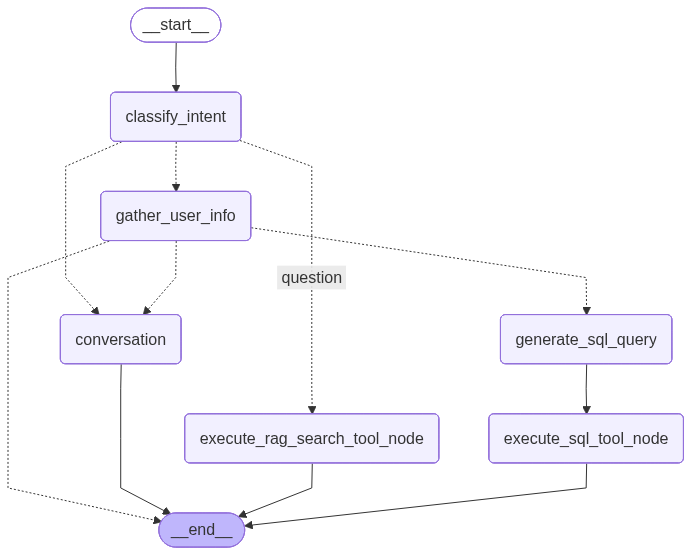
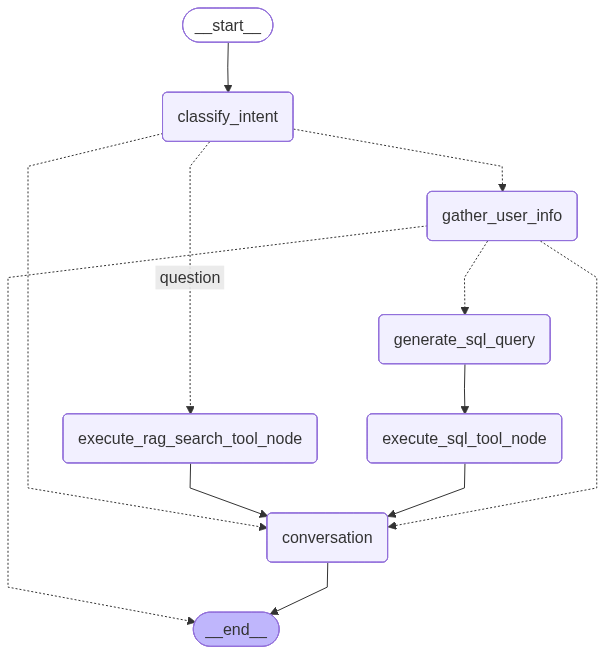
feat - improved conversational response generation and enhanced user interaction flow

diff --git a/app/agents/nodes/conversation.py b/app/agents/nodes/conversation.py
@@ -1,50 +1,96 @@
 from langchain_core.messages import HumanMessage, SystemMessage
 from app.agents.llm_provider import get_llm
 from app.agents.state import AgentState
-import json
 from app.enums import AiModel
+import json
 
 
 def generate_conversational_response(state: AgentState) -> AgentState:
-    llm = get_llm(temperature=0, provider=AiModel.OPENAI)
-
+    llm = get_llm(temperature=0.3, provider=AiModel.OPENAI)
     intent = state.get("intent")
 
     if intent == "greeting":
-        state["response"] ="""
-                            Hello! 🙏 Welcome to the Farmers Pension Scheme.
-                            
-                            I'm here to help you understand and calculate your pension benefits.
-                            
-                            I can help you:
-                            ✅ Calculate required premium payments based on your age
-                            ✅ Show pension amounts you'll receive at different ages
-                            ✅ Answer questions about eligibility, rules, and benefits
-                            
-                            1⃣ Your current age (must be between 18–55)  
-                            2⃣ The monthly pension amount you’d like to receive at age 60  
-                            3⃣ Confirmation that you are:  
-                             🇱🇰 A Sri Lankan citizen  
-                             👨🌾 A farmer by profession  
-                            
-                            What's would like me to help you with today?
-                            """
+        state["response"] = """
+        👋 Hello! Welcome to the **Farmers Pension Scheme**.
 
+        I'm here to help you understand and calculate your pension benefits.
+
+        I can help you:
+        ✅ Calculate required premium payments based on your age  
+        ✅ Show pension amounts you'll receive at different ages  
+        ✅ Answer questions about eligibility, rules, and benefits  
+
+        To begin, please share:
+        1⃣ Your current age (must be between 18–55)  
+        2⃣ The monthly pension amount you’d like to receive at age 60  
+        3⃣ Confirmation that you are:  
+         🇱🇰 A Sri Lankan citizen  
+         👨🌾 A farmer by profession  
+
+        What would you like me to help you with today?
+        """
+        return state
+
+    elif intent == "question":
+        tool_response = state["tool_results"]
+
+        system_prompt = """
+        You are a friendly and knowledgeable pension advisor for farmers.
+
+        🎯 **Goal:** Take the technical or factual answer from the tool and rephrase it 
+        in a warm, conversational tone — easy to understand for a Sri Lankan farmer.
+
+        ✅ Use short, simple sentences.  
+        ✅ Use a few emojis (💰, 📊, ✅, 🙏) to make it engaging.  
+        ✅ If numbers or benefits are mentioned, highlight them clearly.  
+        ✅ Encourage the user positively about their pension planning.
+
+        Example:
+        Tool says: "The monthly premium is 350 LKR for 20 years."
+        Response: "💰 You’ll just need to pay about **350 LKR per month** for 20 years — that’s a small step toward a secure pension at 60! 🙏"
+        """
+        messages = [
+            SystemMessage(content=system_prompt),
+            HumanMessage(content=f"Tool response: {tool_response}"),
+        ]
+
+        response = llm.invoke(messages)
+        state["response"] = response.content
+        return state
+    elif intent == "calculate":
+        tool_response = state["tool_results"]
+
+        system_prompt = """
+        You are a friendly and knowledgeable pension advisor for farmers.
+
+        🎯 **Goal:** Take the technical or factual answer from the tool and rephrase it 
+        in a warm, conversational tone — easy to understand for a Sri Lankan farmer.
+
+        ✅ Use short, simple sentences.  
+        ✅ Use a few emojis (💰, 📊, ✅, 🙏) to make it engaging.  
+        ✅ If numbers or benefits are mentioned, highlight them clearly.  
+        ✅ Encourage the user positively about their pension planning.
+
+        Example:
+        Tool says: "The monthly premium is 350 LKR for 20 years."
+        Response: "💰 You’ll just need to pay about **350 LKR per month** for 20 years — that’s a small step toward a secure pension at 60! 🙏"
+        """
+
+        messages = [
+            SystemMessage(content=system_prompt),
+            HumanMessage(content=f"Tool response: {tool_response}"),
+        ]
+
+        response = llm.invoke(messages)
+        state["response"] = response.content
         return state
 
     system_prompt = """
-                    You are a friendly, conversational pension advisor for farmers.
-                        **Guidelines:**
-                        1. Start with a friendly acknowledgment
-                        2. Use emojis sparingly (💰, ✅, 📊) to highlight key points
-                        3. Be encouraging about retirement planning
-                    
-                    **Tone:** Warm, supportive, clear - like a helpful advisor talking to a farmer planning their future.
-                    """
-
-    messages = [
-        SystemMessage(content=system_prompt),
-    ]
+    You are a warm, friendly pension advisor for farmers.
+    Keep your answers encouraging, simple, and easy to follow.
+    """
+    messages = [SystemMessage(content=system_prompt)]
 
     response = llm.invoke(messages)
     state["response"] = response.content
+    return state

diff --git a/app/agents/graph.py b/app/agents/graph.py
@@ -59,19 +59,20 @@ def build_graph():
     )
 
     workflow.add_edge("generate_sql_query", "execute_sql_tool_node")
-    workflow.add_edge("execute_sql_tool_node", END)
+    workflow.add_edge("execute_sql_tool_node", "conversation")
+    workflow.add_edge("conversation", END)
 
     workflow.add_edge("execute_rag_search_tool_node", "conversation")
     workflow.add_edge("conversation", END)
 
-    '''
-        compiled_graph = workflow.compile()
-        image_bytes = compiled_graph.get_graph().draw_mermaid_png()
-        with open("agent_workflow_graph.png", "wb") as f:
-            f.write(image_bytes)
-        print("Graph saved as 'agent_workflow_graph.png'")
-        from IPython.display import Image, display
-        display(Image(image_bytes))
-    '''
+
+    compiled_graph = workflow.compile()
+    image_bytes = compiled_graph.get_graph().draw_mermaid_png()
+    with open("agent_workflow_graph.png", "wb") as f:
+        f.write(image_bytes)
+    print("Graph saved as 'agent_workflow_graph.png'")
+    from IPython.display import Image, display
+    display(Image(image_bytes))
+
 
     return workflow.compile()
